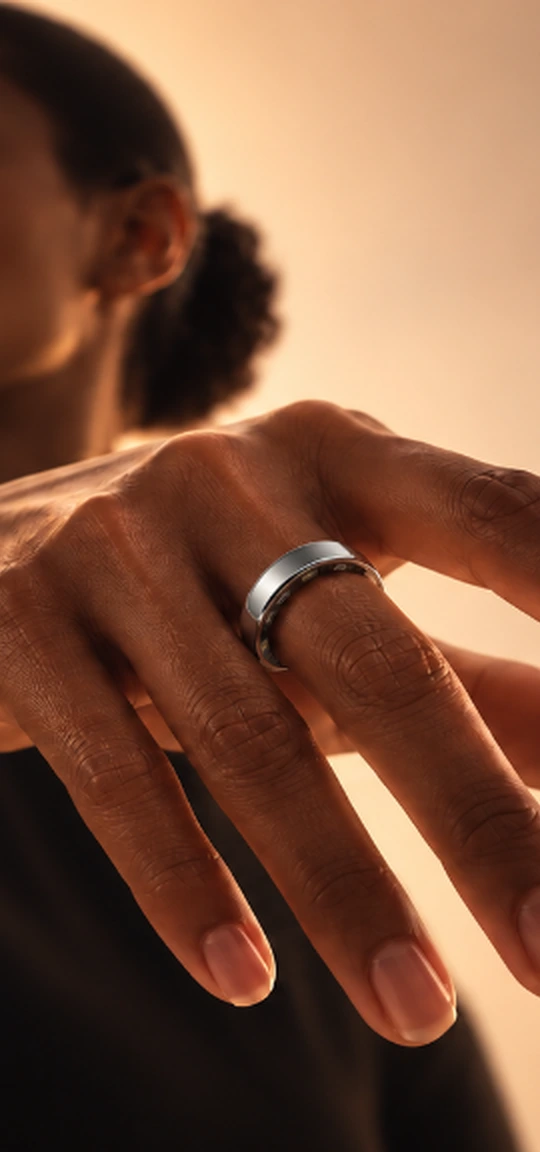
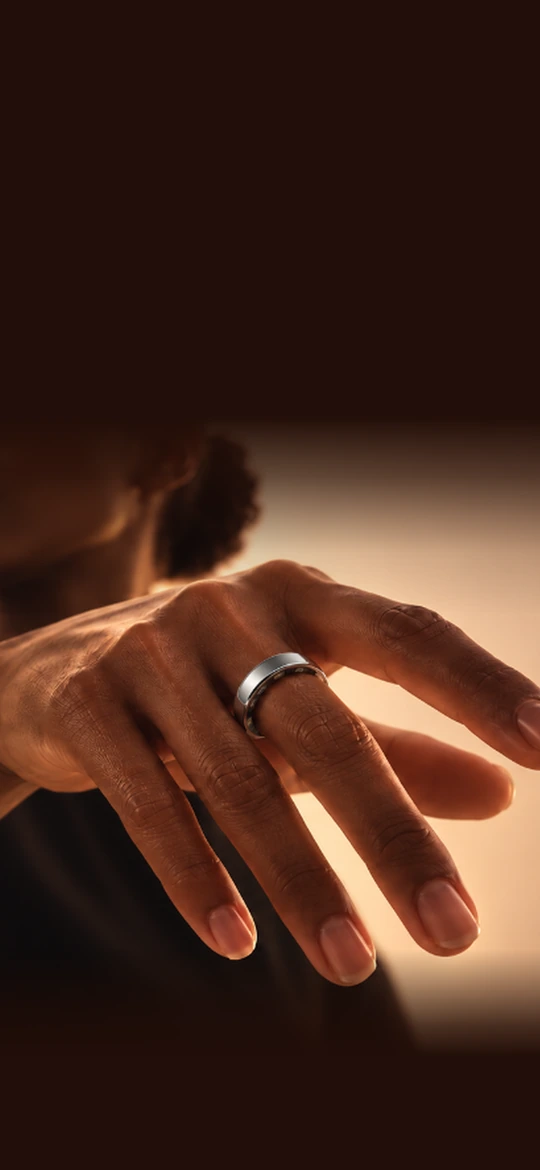
Optimize mobile hero ring placement and center align sensing signals

diff --git a/app/landing.css b/app/landing.css
@@ -506,8 +506,8 @@
     flex-direction: column;
     justify-content: flex-start;
     align-items: center;
-    background: #0d080c;
-    padding-top: clamp(44px, 7vh, 60px);
+    background: #220e08;
+    padding-top: clamp(24px, 4vh, 36px);
     padding-bottom: clamp(16px, 2.5vh, 24px);
     margin-bottom: 0;
     position: relative;
@@ -523,11 +523,10 @@
     pointer-events: none;
     background: linear-gradient(
       180deg,
-      rgba(12, 8, 11, 0.82) 0%,
-      rgba(12, 8, 11, 0.68) 22%,
-      rgba(12, 8, 11, 0.25) 45%,
-      rgba(12, 8, 11, 0.0) 60%,
-      rgba(12, 8, 11, 0.45) 100%
+      rgba(34, 14, 8, 0.75) 0%,
+      rgba(34, 14, 8, 0.5) 28%,
+      rgba(34, 14, 8, 0.0) 50%,
+      rgba(30, 14, 8, 0.4) 100%
     );
   }
   .skin-hero-copy {
@@ -544,44 +543,52 @@
     font-size: 0.75rem;
     letter-spacing: 0.22em;
     text-transform: uppercase;
-    margin: 0 0 12px;
-    color: #e5b699;
+    margin: 0 0 10px;
+    color: #f1dfd1;
     font-weight: 500;
   }
   .skin-hero h1 {
     font-family: var(--font-display), Georgia, serif;
-    font-size: clamp(2rem, 7.8vw, 2.35rem);
-    line-height: 1.15;
-    margin: 0 auto 14px;
+    font-size: clamp(2.05rem, 7.4vw, 2.4rem);
+    line-height: 1.14;
+    margin: 0 auto 12px;
     font-weight: 400;
     letter-spacing: -0.02em;
     color: #f7f3ef;
   }
   .skin-hero-lead {
-    font-size: clamp(0.92rem, 3.6vw, 1rem);
+    font-size: clamp(0.92rem, 3.4vw, 1rem);
     line-height: 1.55;
-    margin: 0 auto 22px !important;
+    margin: 0 auto 18px !important;
     max-width: 330px;
-    color: rgba(247, 243, 239, 0.88);
+    color: rgba(247, 243, 239, 0.9);
   }
   .skin-hero-actions {
     display: flex;
-    flex-direction: column;
+    flex-direction: row;
     align-items: center;
     justify-content: center;
     margin-top: 0;
-    margin-bottom: 16px;
-    gap: 10px;
+    margin-bottom: 12px;
+    gap: 18px;
   }
   .skin-hero .skin-button {
-    padding: 13px 28px;
+    padding: 12px 24px;
     font-size: 0.9375rem;
     font-weight: 500;
     border-radius: 999px;
     box-shadow: 0 4px 20px rgba(0, 0, 0, 0.25);
+    white-space: nowrap;
   }
   .skin-hero .skin-text-link {
-    display: none;
+    display: inline-flex;
+    font-size: 0.9375rem;
+    color: #f7f3ef;
+    text-decoration: underline;
+    text-underline-offset: 4px;
+    border-bottom: none;
+    padding: 0;
+    white-space: nowrap;
   }
   .skin-hero-image {
     order: unset;
@@ -593,7 +600,7 @@
     max-width: none;
     aspect-ratio: auto;
     object-fit: cover;
-    object-position: center bottom;
+    object-position: center center;
     border-radius: 0;
     box-shadow: none;
     -webkit-mask-image: none;
@@ -717,12 +724,53 @@
   .skin-pathways > .skin-small-print { margin-top: 20px; }
   .skin-ring-section { gap: 28px; padding-block: clamp(56px, 8vh, 72px); }
   .skin-ring-photo { aspect-ratio: 4 / 5; max-height: 480px; }
-  .skin-ring-copy { padding: 0; }
-  .skin-ring-copy > p:not(.skin-kicker) { margin-top: 18px; font-size: 1.0625rem; line-height: 1.75; }
-  .skin-signal-grid { grid-template-columns: minmax(0, 1fr); gap: 16px; margin-top: 24px; }
-  .skin-signal-grid > div { font-size: 1.0625rem; gap: 14px; line-height: 1.5; }
-  .skin-signal-label { font-size: 1rem; }
-  .skin-signal-note { font-size: 0.875rem; }
+  .skin-ring-copy { padding: 0; text-align: center; }
+  .skin-ring-copy > p:not(.skin-kicker) { margin-top: 18px; font-size: 1.0625rem; line-height: 1.75; margin-inline: auto; max-width: 440px; }
+  .skin-signal-grid {
+    display: flex;
+    flex-direction: column;
+    align-items: center;
+    gap: 24px;
+    margin-top: 32px;
+    width: 100%;
+    text-align: center;
+  }
+  .skin-signal-grid > div {
+    display: flex;
+    flex-direction: column;
+    align-items: center;
+    text-align: center;
+    gap: 8px;
+    width: 100%;
+  }
+  .skin-signal-grid svg,
+  .skin-signal-icon {
+    width: 24px !important;
+    height: 24px !important;
+    stroke-width: 2.2px !important;
+    color: var(--skin-accent);
+    margin: 0;
+  }
+  .skin-signal-content {
+    display: flex;
+    flex-direction: column;
+    align-items: center;
+    text-align: center;
+    gap: 3px;
+  }
+  .skin-signal-label {
+    font-size: 1.0625rem;
+    font-weight: 500;
+    color: var(--skin-ink, #252028);
+    text-align: center;
+    line-height: 1.35;
+  }
+  .skin-signal-note {
+    font-size: 0.875rem;
+    color: var(--skin-muted, #726879);
+    text-align: center;
+    line-height: 1.4;
+  }
   .skin-specs { padding-block: clamp(56px, 8vh, 72px); }
   .skin-spec-list { grid-template-columns: minmax(0, 1fr); gap: 20px; margin-top: 28px; }
   .skin-spec-list article { display: grid; grid-template-columns: 24px minmax(0, 1fr); column-gap: 16px; padding-top: 20px; }

diff --git a/components/threefig/landing.tsx b/components/threefig/landing.tsx
@@ -238,7 +238,7 @@ export default function Landing() {
             <div className="skin-signal-grid">
               {signals.map(({ icon: Icon, label, note }) => (
                 <div key={label}>
-                  <Icon size={18} strokeWidth={1.55} />
+                  <Icon className="skin-signal-icon" size={20} strokeWidth={1.8} />
                   <div className="skin-signal-content">
                     <strong className="skin-signal-label">{label}</strong>
                     <span className="skin-signal-note">{note}</span>
